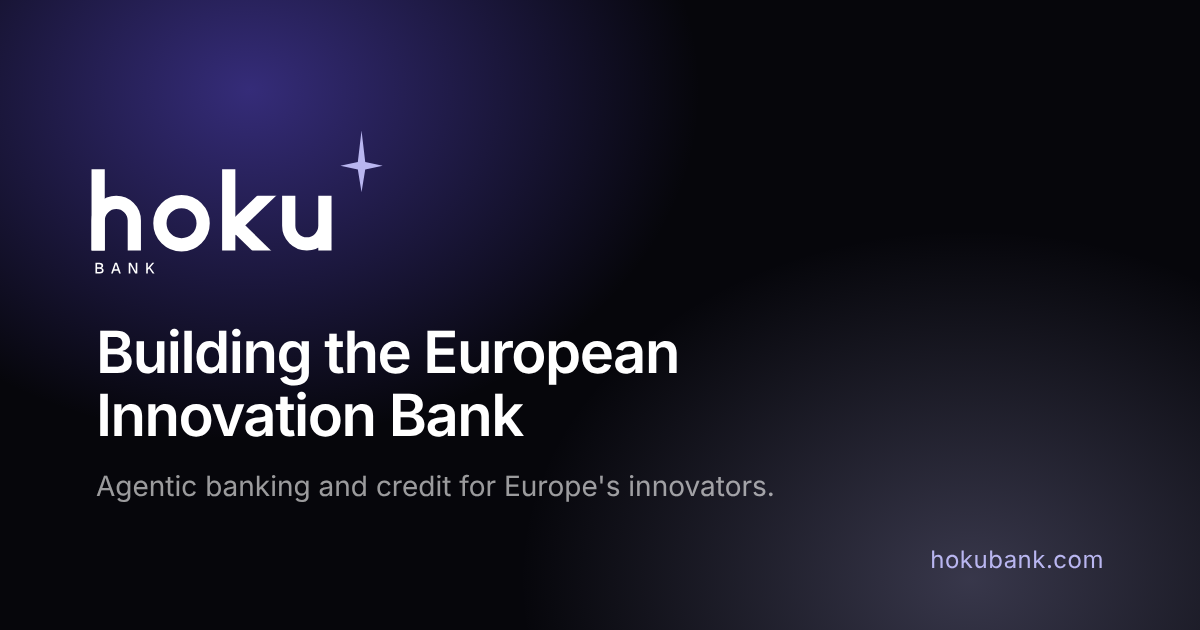
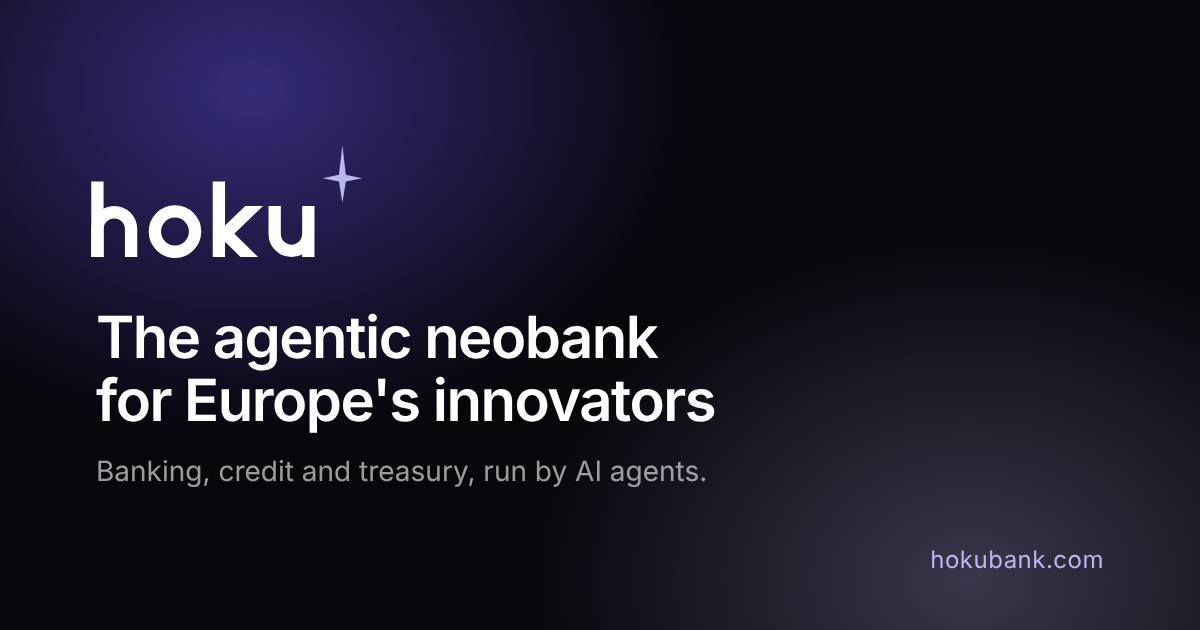
Present Hoku as a neobank, not a bank, and add the Latvia licence disclaimer
- Brand name is "Hoku" everywhere (titles, metadata, alt text, consent
  line, e-mail sender); the footer uses the logo without "BANK".
- Copy no longer calls Hoku a bank or licensed; it is "the neobank".
- Footer disclaimer: Hoku is not a bank and intends to apply for a
  specialised credit institution licence in Latvia (Credit Institution Law;
  ECB grants, Latvijas Banka supervises); no regulated services until then.
  Marked TODO(legal) for compliance sign-off.
- New share image with the neobank tagline.

Claude-Session: https://claude.ai/code/session_01T89EnVABybLASXNLbm517S

diff --git a/src/components/Sections.tsx b/src/components/Sections.tsx
@@ -77,7 +77,7 @@ const WHY_NOW: { k: string; title: string; body: string; caption: string; bars: 
   {
     k: "€150B",
     title: "Europe is reindustrialising",
-    body: "The SAFE defence programme funds the orders. The thousands of SME suppliers who deliver them still need the working capital, guarantees and FX that only a bank provides.",
+    body: "The SAFE defence programme funds the orders. The thousands of SME suppliers who deliver them still need working capital, guarantees and FX, fast.",
     caption: "SAFE defence loans, € billions",
     max: 150,
     bars: [
@@ -89,7 +89,7 @@ const WHY_NOW: { k: string; title: string; body: string; caption: string; bars: 
   {
     k: "5%",
     title: "Payments alone don't pay",
-    body: "Digital banks proved the stack but not the economics. Credit is what pays, which is why Qonto and Mercury are now chasing bank licences. We start with one.",
+    body: "Digital banks proved the stack but not the economics. Credit is what pays, which is why Qonto and Mercury are now chasing bank licences. We plan for a licence from day one.",
     caption: "Digital banks' share of EU retail banking",
     max: 20,
     bars: [
@@ -100,12 +100,12 @@ const WHY_NOW: { k: string; title: string; body: string; caption: string; bars: 
   {
     k: "43%",
     title: "AI made underwriting cheap",
-    body: "Agents handle onboarding, credit memos and AML triage for cents. Small-ticket business lending becomes profitable, and the bank runs leaner than any incumbent.",
+    body: "Agents handle onboarding, credit memos and AML triage for cents. Small-ticket business lending becomes profitable, and Hoku runs leaner than any incumbent.",
     caption: "Cost-to-income ratio",
     max: 60,
     bars: [
       { label: "EU bank average", value: 52.3, display: "52.3%" },
-      { label: "Hoku Bank, Year 5 plan", value: 43, display: "43%", strong: true },
+      { label: "Hoku, Year 5 plan", value: 43, display: "43%", strong: true },
     ],
   },
 ];
@@ -204,14 +204,14 @@ export function Vision() {
             <h2 className="mt-5 text-[clamp(2.5rem,5.5vw,4.5rem)] font-semibold leading-[1] tracking-[-0.045em]">
               Europe doesn&apos;t lack innovation.
               <br />
-              <span className="text-gradient">It lacks a bank built for it.</span>
+              <span className="text-gradient">It lacks a neobank built for it.</span>
             </h2>
           </Reveal>
           <Reveal delay={0.1}>
             <p className="text-lg leading-relaxed text-white/65">
-              Technology SMEs are too big for a neobank, too small for a debt
-              fund and too asset-light for a traditional bank. We are building
-              the licensed European bank that finances them on live data, run by
+              Technology SMEs are too big for consumer fintech apps, too small for
+              a debt fund and too asset-light for a traditional bank. We are building
+              the European neobank that finances them on live data, run by
               AI agents from day one.
             </p>
             <div className="mt-6 flex items-baseline gap-3">
@@ -276,7 +276,7 @@ export function Platform() {
           </h2>
           <p className="mx-auto mt-6 max-w-xl text-lg text-white/65">
             Built for the technology SMEs and venture-backed startups that are too
-            big for a neobank and too asset-light for a traditional bank.
+            big for consumer fintech apps and too asset-light for a traditional bank.
           </p>
         </Reveal>
 
@@ -368,7 +368,7 @@ export function Team() {
                 <div data-theme="dark" className="relative aspect-[4/5] overflow-hidden rounded-2xl text-white">
                   <img
                     src={m.photo}
-                    alt={`${m.name}, ${m.role} at Hoku Bank`}
+                    alt={`${m.name}, ${m.role} at Hoku`}
                     width={640}
                     height={800}
                     loading="lazy"
@@ -416,7 +416,7 @@ export function Access() {
       <Aurora />
       <Reveal className="relative mx-auto max-w-3xl text-center">
         <h2 className="text-[clamp(2.5rem,6vw,5rem)] font-semibold leading-[0.98] tracking-[-0.045em]">
-          The bank Europe&apos;s
+          The neobank Europe&apos;s
           <br />
           <span className="text-gradient">innovators deserve.</span>
         </h2>
@@ -443,10 +443,17 @@ export function Footer() {
     <footer className="border-t border-white/10 px-6 py-14 text-sm text-white/45">
       <div className="mx-auto flex max-w-6xl flex-col gap-10 md:flex-row md:justify-between">
         <div className="max-w-md">
-          <img src="/brand/hoku-bank-logo-dark.svg" alt="Hoku Bank" width={340} height={170} loading="lazy" className="h-14 w-auto opacity-90" />
+          <img src="/brand/hoku-logo-dark.svg" alt="Hoku" width={340} height={146} loading="lazy" className="h-12 w-auto opacity-90" />
+          {/* TODO(legal): compliance to approve this wording before launch. */}
           <p className="mt-5 leading-relaxed">
-            Hoku Bank is preparing an application for a credit institution licence
-            and does not currently provide banking or other regulated services.
+            Hoku is not a bank. Hoku Group intends to apply for authorisation as a
+            specialised credit institution in the Republic of Latvia under the
+            Latvian Credit Institution Law (Kredītiestāžu likums). In the euro area
+            such licences are granted by the European Central Bank on a proposal
+            from Latvijas Banka, which would be Hoku&apos;s home supervisor. Until a
+            licence is granted, Hoku does not accept deposits or provide banking or
+            other regulated services, and nothing on this website is an offer of
+            such services.
           </p>
         </div>
         <div className="flex gap-16">

diff --git a/src/app/privacy/page.tsx b/src/app/privacy/page.tsx
@@ -4,11 +4,11 @@ import Link from "next/link";
 export const metadata: Metadata = {
   title: "Privacy policy",
   description:
-    "How Hoku Bank handles personal data sent through hokubank.com: what the contact form collects, why, where it is stored and your rights under GDPR.",
+    "How Hoku handles personal data sent through hokubank.com: what the contact form collects, why, where it is stored and your rights under GDPR.",
   alternates: { canonical: "/privacy" },
   // A page-level openGraph replaces the root one, so the share image is repeated here.
-  openGraph: { url: "/privacy", title: "Privacy policy | Hoku Bank", images: ["/opengraph-image.png"] },
-  twitter: { card: "summary_large_image", title: "Privacy policy | Hoku Bank", images: ["/twitter-image.png"] },
+  openGraph: { url: "/privacy", title: "Privacy policy | Hoku", images: ["/opengraph-image.png"] },
+  twitter: { card: "summary_large_image", title: "Privacy policy | Hoku", images: ["/twitter-image.png"] },
 };
 
 // TODO: replace with the final policy approved by legal (controller details, KRS, DPO contact).

diff --git a/src/components/Nav.tsx b/src/components/Nav.tsx
@@ -20,8 +20,8 @@ export function Nav() {
           scrolled ? "nav-solid" : "border border-transparent"
         }`}
       >
-        <a href="#" aria-label="Hoku Bank home">
-          <img src="/brand/hoku-logo-dark.svg" alt="Hoku Bank" width={340} height={146} className="h-[44px] w-auto sm:h-[56px]" />
+        <a href="#" aria-label="Hoku home">
+          <img src="/brand/hoku-logo-dark.svg" alt="Hoku" width={340} height={146} className="h-[44px] w-auto sm:h-[56px]" />
         </a>
         <div className="hidden flex-1 items-center justify-evenly px-8 text-[15px] text-white/65 md:flex lg:px-16">
           <a href="#autopilot" className="transition hover:text-white">Autopilot</a>

diff --git a/src/components/ContactForm.tsx b/src/components/ContactForm.tsx
@@ -136,7 +136,7 @@ export function ContactForm() {
             <label className="flex items-start gap-3 pt-1 text-[13px] leading-relaxed text-white/50">
               <input name="consent" type="checkbox" required className="mt-0.5 h-4 w-4 shrink-0 accent-white" />
               <span>
-                I agree that Hoku Bank may store my details to reply to this message. See our{" "}
+                I agree that Hoku may store my details to reply to this message. See our{" "}
                 <Link href="/privacy" className="text-white/75 underline underline-offset-2 hover:text-white">
                   privacy policy
                 </Link>

diff --git a/src/app/api/contact/route.ts b/src/app/api/contact/route.ts
@@ -54,7 +54,7 @@ async function notify(row: { name: string; email: string; organisation: string |
   const to = process.env.CONTACT_TO?.split(",").map((s) => s.trim()).filter(Boolean);
   if (!key || !to?.length) return;
 
-  const from = process.env.CONTACT_FROM || "Hoku Bank website <onboarding@resend.dev>";
+  const from = process.env.CONTACT_FROM || "Hoku website <onboarding@resend.dev>";
   const role = row.role[0].toUpperCase() + row.role.slice(1);
   const subject = `New contact: ${row.name} (${role}${row.organisation ? `, ${row.organisation}` : ""})`;
   const lines: [string, string][] = [

diff --git a/src/app/page.tsx b/src/app/page.tsx
@@ -22,7 +22,7 @@ const organization = {
   url: `${SITE_URL}/`,
   logo: `${SITE_URL}/brand/hoku-icon-512.png`,
   description:
-    "Hoku Bank is a Warsaw-based company building agentic banking and credit software for Europe's innovative companies.",
+    "Hoku is a Warsaw-based company building an agentic neobank for Europe's innovative companies. Hoku is not a bank and does not provide regulated services.",
   address: { "@type": "PostalAddress", addressLocality: "Warsaw", addressCountry: "PL" },
   ...(LINKEDIN_URL ? { sameAs: [LINKEDIN_URL] } : {}),
 };

diff --git a/src/lib/site.ts b/src/lib/site.ts
@@ -3,7 +3,7 @@
 // structured data use the www host. If the primary domain is ever switched in
 // Vercel, change it here too.
 export const SITE_URL = "https://www.hokubank.com";
-export const SITE_NAME = "Hoku Bank";
+export const SITE_NAME = "Hoku";
 
 // Official company page on LinkedIn (footer link and structured data sameAs).
 export const LINKEDIN_URL = "https://www.linkedin.com/company/hoku-bank/";

diff --git a/src/app/layout.tsx b/src/app/layout.tsx
@@ -23,7 +23,7 @@ const instrumentSerif = Instrument_Serif({
   subsets: ["latin"],
 });
 
-const title = "Hoku Bank | Building the European Innovation Bank";
+const title = "Hoku | The agentic neobank for Europe's innovators";
 const description =
   "Agentic banking and credit for Europe's innovators. One account for banking, credit and treasury, run by AI agents within the mandate your CFO sets.";
 

diff --git a/src/components/Hero.tsx b/src/components/Hero.tsx
@@ -115,7 +115,7 @@ export function Hero() {
             className="rise glass mx-auto inline-flex items-center gap-2 rounded-full px-3.5 py-1.5 text-xs text-white/80 lg:mx-0"
           >
             <span className="h-1.5 w-1.5 rounded-full bg-sky" />
-            Building the European Innovation Bank
+            The agentic neobank for Europe&apos;s innovators
           </p>
 
           <h1

diff --git a/src/app/not-found.tsx b/src/app/not-found.tsx
@@ -15,7 +15,7 @@ export default function NotFound() {
         href="/"
         className="mt-9 inline-flex h-12 items-center rounded-full bg-white px-6 text-sm font-semibold text-black transition hover:bg-white/90"
       >
-        Back to Hoku Bank
+        Back to Hoku
       </Link>
     </main>
   );
